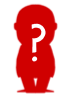
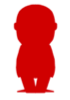
add a name tag

Changed region(s): [[0.4286, 0.21, 0.6571, 0.63]]

diff --git a/sass/main.scss b/sass/main.scss
@@ -6,6 +6,8 @@
 @import "compass/reset";
 @import "compass/typography/links/link-colors";
 @import "compass/css3/font-face";
+@import "compass/css3/border-radius";
+@import "compass/css3/box-shadow";
 
 // style variables
 
@@ -28,8 +30,8 @@ $feet_y: 353px; // to more or less touch the feet of the cartoon characters in h
 
 // animation variables
 
-$animStart: 2s; // first animation starts after $animStart seconds
-$animDurationToMoveOriginalTextToBoxes: 2s;
+$animStart: 4s; // first animation starts after $animStart seconds
+$animDurationToMoveOriginalTextToBoxes: 4s;
 $animDurationToMakeArrowsDisappear: 1s;
 $animDurationToRunAndJump: 3s; // 2s run, 1s jump
 $animDurationToExpandBox: 2s;
@@ -37,9 +39,8 @@ $animDurationToExpandBox: 2s;
 // special fonts
 
 @include font-face("Solex", font-files("solexreg-webfont.woff")); // yup, I haven't paid for it, but it's only used for this job application (so it's life expectancy is about 10min)
-$font-family: "Solex";
 @include font-face("JandA", font-files("jandasafeandsoundsolid-webfont.woff")); // same here
-$font-family: "JandA";
+@include font-face("ComingSoon", font-files("comingsoon-webfont.woff")); // same here
 
 body {
   font-family: "Solex";
@@ -80,6 +81,79 @@ li {
     content: "•";
     padding-right: 5px;
     color: $darkRed;
+  }
+}
+
+#hello {
+  $width: 250px;
+
+  position: absolute;
+  top: 20px; // arbitrary
+  left: ($manu_x + image-width("manu.png") / 2) - ($width / 2);
+
+  width: $width;
+  background: $darkRed;
+  @include border-radius(10px);
+  @include single-box-shadow(#808080);
+  text-align: center;
+  
+  div:first-child {
+    h1, p {
+      padding: 5px;
+      color: #fff;
+      font-family: Helvetica, Arial, sans-serif;
+      text-transform: uppercase;
+      letter-spacing: .2em;
+    }
+    h1 {
+      margin: 0;
+      font-size: 2em;
+    }
+  }
+  .name {
+    background: #fff;    
+    line-height: 2em;
+    font-family: "ComingSoon";
+    font-size: 3em;
+    @include border-radius(0 0 10px 10px);
+  }
+
+  opacity: 0;
+  -webkit-animation-delay: $animStart / 2; // must just be smaller than $animStart
+  -webkit-animation-duration: $animStart + $animDurationToMoveOriginalTextToBoxes + $animDurationToMakeArrowsDisappear - 2s;
+  -webkit-animation-fill-mode: both;
+  -webkit-animation-name: showAndHide;
+}
+
+@-webkit-keyframes showAndHide {
+  // show, stay visible for a while, hide
+  20% {
+    opacity: 1;
+  }
+  80% {
+    opacity: 1;
+  }
+  to {
+    opacity: 0;
+  }
+}
+
+// as soon as the name tag is shown, Manu is not anonymous anymore => hide the "?"
+#unknown {
+  color: white;
+  font-size: 3em;
+  text-align: center;
+  margin-top: 15px; // match PDF file
+
+  -webkit-animation-delay: $animStart; // see #hello
+  -webkit-animation-duration: 1s;
+  -webkit-animation-fill-mode: both;
+  -webkit-animation-name: disappear;
+}
+
+@-webkit-keyframes disappear {
+  to {
+    opacity: 0;
   }
 }
 
@@ -199,13 +273,7 @@ $jobHeight: 150px;
   -webkit-animation-delay: $animStart + $animDurationToMoveOriginalTextToBoxes;
   -webkit-animation-duration: $animDurationToMakeArrowsDisappear;
   -webkit-animation-fill-mode: both;
-  -webkit-animation-name: disappear;
-}
-
-@-webkit-keyframes disappear {
-  to {
-    opacity: 0;
-  }
+  -webkit-animation-name: disappear; // re-use an existing animation
 }
 
 /*

diff --git a/css/main.css b/css/main.css
@@ -68,6 +68,11 @@ article, aside, details, figcaption, figure, footer, header, hgroup, menu, nav, 
   src: url('../fonts/jandasafeandsoundsolid-webfont.woff') format('woff');
 }
 
+@font-face {
+  font-family: "ComingSoon";
+  src: url('../fonts/comingsoon-webfont.woff') format('woff');
+}
+
 body {
   font-family: "Solex";
   color: #777472;
@@ -121,12 +126,87 @@ li:before {
   color: #ce0c17;
 }
 
+#hello {
+  position: absolute;
+  top: 20px;
+  left: 668px;
+  width: 250px;
+  background: #ce0c17;
+  -webkit-border-radius: 10px;
+  -moz-border-radius: 10px;
+  -ms-border-radius: 10px;
+  -o-border-radius: 10px;
+  border-radius: 10px;
+  -webkit-box-shadow: 0px 0px 5px gray;
+  -moz-box-shadow: 0px 0px 5px gray;
+  box-shadow: 0px 0px 5px gray;
+  text-align: center;
+  opacity: 0;
+  -webkit-animation-delay: 2s;
+  -webkit-animation-duration: 7s;
+  -webkit-animation-fill-mode: both;
+  -webkit-animation-name: showAndHide;
+}
+#hello div:first-child h1, #hello div:first-child p {
+  padding: 5px;
+  color: #fff;
+  font-family: Helvetica, Arial, sans-serif;
+  text-transform: uppercase;
+  letter-spacing: .2em;
+}
+#hello div:first-child h1 {
+  margin: 0;
+  font-size: 2em;
+}
+#hello .name {
+  background: #fff;
+  line-height: 2em;
+  font-family: "ComingSoon";
+  font-size: 3em;
+  -webkit-border-radius: 0 0 10px 10px;
+  -moz-border-radius: 0 0 10px 10px;
+  -ms-border-radius: 0 0 10px 10px;
+  -o-border-radius: 0 0 10px 10px;
+  border-radius: 0 0 10px 10px;
+}
+
+@-webkit-keyframes showAndHide {
+  20% {
+    opacity: 1;
+  }
+
+  80% {
+    opacity: 1;
+  }
+
+  to {
+    opacity: 0;
+  }
+}
+
+#unknown {
+  color: white;
+  font-size: 3em;
+  text-align: center;
+  margin-top: 15px;
+  -webkit-animation-delay: 4s;
+  -webkit-animation-duration: 1s;
+  -webkit-animation-fill-mode: both;
+  -webkit-animation-name: disappear;
+}
+
+@-webkit-keyframes disappear {
+  to {
+    opacity: 0;
+  }
+}
+
 #requirements,
 #profile,
 #job,
 #application {
-  -webkit-animation-delay: 2s;
-  -webkit-animation-duration: 2s;
+  -webkit-animation-delay: 4s;
+  -webkit-animation-duration: 4s;
   -webkit-animation-fill-mode: both;
   /* this sucks, but it seems impossible to animate anything else than absolutely positionned elements */
   position: absolute;
@@ -250,16 +330,10 @@ li:before {
   position: absolute;
   top: 208px;
   left: 756px;
-  -webkit-animation-delay: 4s;
+  -webkit-animation-delay: 8s;
   -webkit-animation-duration: 1s;
   -webkit-animation-fill-mode: both;
   -webkit-animation-name: disappear;
-}
-
-@-webkit-keyframes disappear {
-  to {
-    opacity: 0;
-  }
 }
 
 /*
@@ -281,7 +355,7 @@ to { background-position: -500px; }
   height: 100px;
   background-image: url("../images/manu.png");
   position: absolute;
-  -webkit-animation-delay: 5s;
+  -webkit-animation-delay: 9s;
   -webkit-animation-duration: 3s;
   -webkit-animation-fill-mode: both;
   -webkit-animation-name: jumpnrun1;
@@ -354,7 +428,7 @@ to { background-position: -500px; }
 }
 
 #box1 {
-  -webkit-animation-delay: 8s;
+  -webkit-animation-delay: 12s;
   -webkit-animation-name: expand1;
 }
 

diff --git a/index.html b/index.html
@@ -7,7 +7,16 @@
   <body>
     <header>
       <div id="arrows"></div>
-      <div id="manu"></div>
+      <div id="manu">
+        <div id="unknown">?</div>
+      </div>
+      <div id="hello"> 
+        <div> 
+          <h1>Hello</h1> 
+          <p>my name is</p> 
+        </div> 
+        <div class="name">Manu</div>
+      </div>
     </header>
 
     <section id="requirements">
@@ -49,15 +58,13 @@
     <footer>
       TODO
       <ul>
-        <li>hello I'm Manu name tag on start</li>
         <li>grass textures</li>
-        <li>jump animation</li>
-        <li>run animation and sprite</li>
+        <li>sprite</li>
         <li>texts</li>
         <li>auto-scroll</li>
-        <li>parallax scrolling</li>
+        <li>bonus: parallax scrolling with clouds</li>
       </ul>
-      14h
+      15h
     </footer>
 
     <script type="text/javascript" src="js/main.js"></script>
